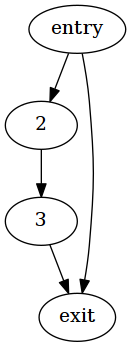
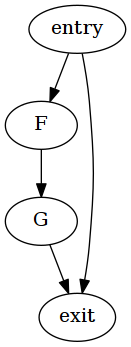
all: Refine example.

Changed region(s): [[0.2443, 0.6052, 0.3664, 0.6628], [0.2748, 0.317, 0.3664, 0.3746]]

diff --git a/restructure.go b/restructure.go
@@ -7,14 +7,14 @@
 // Example input
 //
 //    digraph foo {
-//       1 -> 2
-//       1 -> 4
-//       2 -> 3
-//       3 -> 4
-//       1 [label="entry"]
-//       2
-//       3
-//       4 [label="exit"]
+//       E -> F
+//       E -> H
+//       F -> G
+//       G -> H
+//       E [label="entry"]
+//       F
+//       G
+//       H [label="exit"]
 //    }
 //
 // Example output
@@ -25,16 +25,16 @@
 //          "if0": {
 //             "primitive": "if",
 //             "nodes": {
-//                "A": "1",
+//                "A": "E",
 //                "B": "list0",
-//                "C": "4",
+//                "C": "H",
 //             },
 //          },
 //          "list0": {
 //             "primitive": "list",
 //             "nodes": {
-//                "A": "3",
-//                "B": "4",
+//                "A": "F",
+//                "B": "G",
 //             },
 //          },
 //       },

diff --git a/README.md b/README.md
@@ -31,13 +31,13 @@ Flags:
 ```bash
 $ restructure foo.dot
 // Output:
-// Isomorphism of "list" found at node "2":
-//    "A"="2"
-//    "B"="3"
-// Isomorphism of "if" found at node "1":
-//    "A"="1"
+// Isomorphism of "list" found at node "F":
+//    "A"="F"
+//    "B"="G"
+// Isomorphism of "if" found at node "E":
+//    "A"="E"
 //    "B"="list0"
-//    "C"="4"
+//    "C"="H"
 ```
 
 INPUT:
@@ -47,6 +47,14 @@ INPUT:
 
 OUTPUT:
 * [foo.json](testdata/foo.json): structured control flow graph.
+
+```c
+if E {
+    F
+    G
+}
+H
+```
 
 ## Public domain
 
